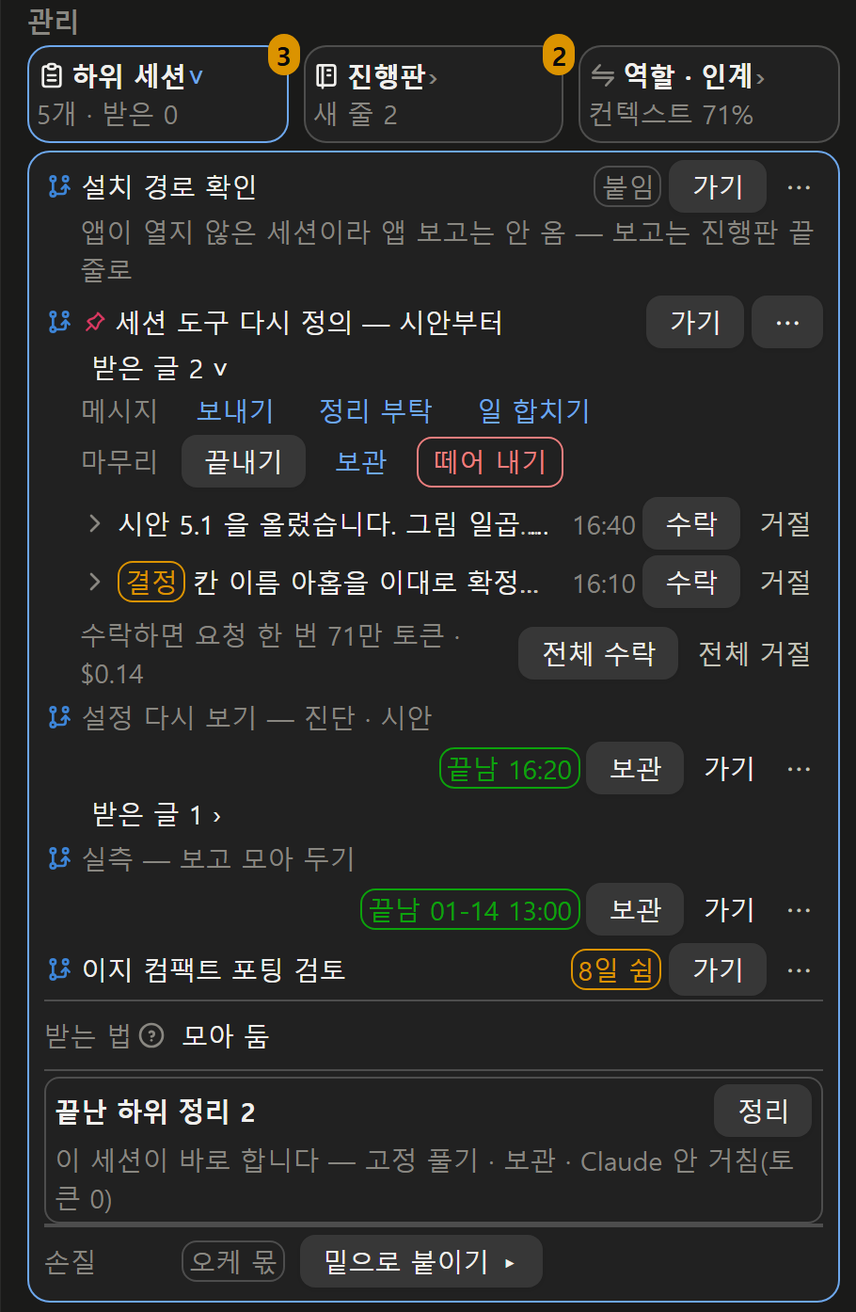
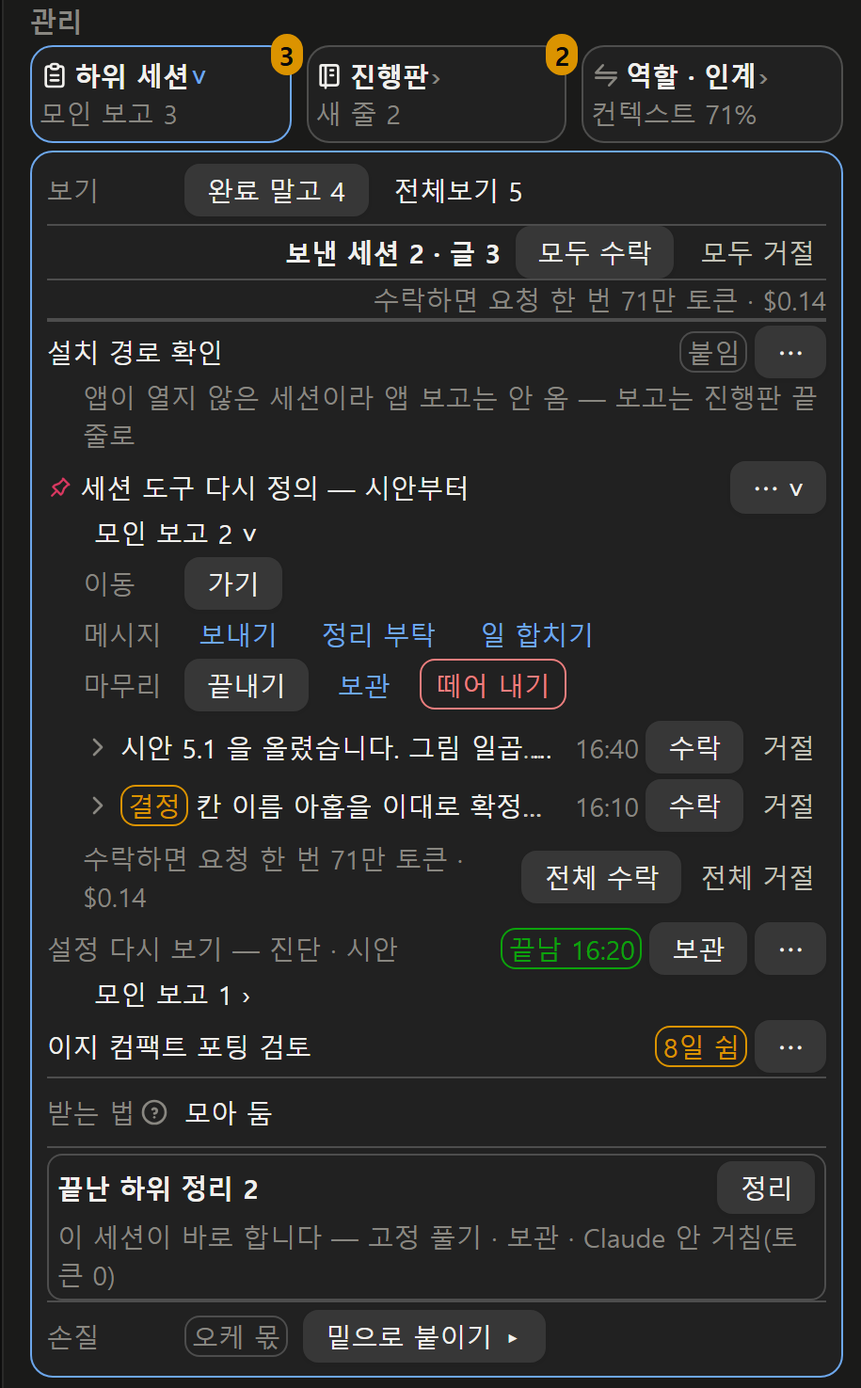
0.1.35 — 하위 세션 칸: 완료 말고 · 전체보기, 모두 수락 · 모두 거절, ⋯ 회색 · 가기는 ⋯ 안, 모인 보고 이름, 하위가 많을 때 가벼워짐

diff --git a/plugin/hooks/panel.tsx b/plugin/hooks/panel.tsx
@@ -536,6 +536,10 @@ export const UNDER_FOLD = 'under:'
 export const UNDER_ALL_FOLD = 'under-all:'
 // 오케 최악(보낸 세션 열 · 하나씩)에 7.5만 자 선을 넘었다(재기 — 크기 시험). 넘는 것은 「그 밖 N개」
 const MSG_LIMIT = 8
+// 한꺼번에 받기 · 지우기는 칸 맨 위 [모두 수락] · [모두 거절]
+const KID_MSG_LIMIT = 3
+/** 하위 세션 칸 「전체보기」 접힘 열쇠(0.1.35 M2 ①) — 없으면 「완료 말고」. 앞머리 kids 라 크기 안전망이 비우면 가벼운 보기로 돌아간다(register.md#sizeGuard) */
+const KIDS_ALL_FOLD = 'kids-all'
 /** 카드 바탕(0.1.5 — 어두운 테마 흰 5% · 밝은 테마 검정 3% 어림). 맞는 테마 키가 없어 중성 회색 — 노트 panel.md#card */
 const CARD_BG = 'rgba(128,128,128,.08)'
 // 칸 최소 폭 · 하위 줄 제목 칸 최소 폭(시안 140px ≈ 18칸) · 「지금」 줄에 그리는 입력 필요 줄 상한
@@ -855,6 +859,20 @@ export function drawPanel(ui: Ui, v: PanelView, pu: PanelUi, cols: number, acts:
   const heldUp = held.filter(r => r.from === upId)
   const heldSib = held.filter(r => sibIds.has(r.from))
   const heldOther = held.filter(r => !kidIds.has(r.from) && r.from !== upId && !sibIds.has(r.from))
+  // 할 것(모인 보고 · 입력 필요 · 끝난 듯)이 없는 줄. 도는 중인 줄은 남는다. 줄 차례는 만든 때 순 그대로(서가 「자리는 저절로 안 움직인다」)
+  const heldFrom = new Set(heldKid.map(r => r.from))
+  const kidTodo = (r: FamilyRow) => isWaiting(r) || heldFrom.has(r.id) || (!r.isEnded && !r.isArchived && v.ending?.has(r.id) === true)
+  const kidHidden = new Set(kids.filter(r => isDone(r) && !kidTodo(r)).map(r => r.id))
+  const isKidsAll = folds.has(KIDS_ALL_FOLD)
+  const kidsShown = isKidsAll ? kids : kids.filter(r => !kidHidden.has(r.id))
+  // 할 것 없는 줄 — 붙임 · N일 쉼 — 이 열 자리를 채워 모인 보고 3 줄이 「나머지 1」에 접혔다)
+  const kidRoom = Math.max(0, LIST_LIMIT - kidsShown.filter(kidTodo).length)
+  const kidFirst = (() => {
+    let quiet = 0
+    return kidsShown.filter(r => kidTodo(r) || quiet++ < kidRoom)
+  })()
+  const kidMore = kidsShown.length - kidFirst.length
+  const kidDrawn = kidMore > 0 && !folds.has('kids') ? kidFirst : kidsShown
   // 「다른 세션」 보낸 글 = 위 · 하위 · 형제가 아닌 받는 세션(앱 도착 기록)
   const inqSent = v.sent.filter(s => s.to !== upId && !kidIds.has(s.to) && !sibIds.has(s.to))
 
@@ -919,6 +937,7 @@ export function drawPanel(ui: Ui, v: PanelView, pu: PanelUi, cols: number, acts:
   )
 
   // 「마무리」 줄([끝내기] 회색 하나 · 보관 글 단추 · 떼어 내기 경고 단추). 단추 key 는 옛 ⋯ 목록 그대로(es-m-<이름>-<짧은 id>). 떼어 내기는 앱이 뗄 수 있는 세션만(canDetach)
+  // 0.1.35 M2 ④: 맨 위 「이동」 줄 [가기](줄에서 옮김 — 회색 단추는 그 자리 주 동작). 손질 두 줄은 메인 · 오케만, 이동 줄은 누구나(⋯ 는 모든 줄에 늘)
   const kidFix = (r: FamilyRow) => {
     const el = k(r.id)
     const item = (name: string, label: string, onPress: () => unknown) => linkButton(`es-m-${name}-${el}`, label, onPress)
@@ -934,12 +953,13 @@ export function drawPanel(ui: Ui, v: PanelView, pu: PanelUi, cols: number, acts:
     )
     return (
       <Box key={`es-fix-${el}`} flexDirection="column" rowGap={0.3} marginTop={0.3} marginLeft={2.5} minWidth={0}>
-        {fixRow(`es-fix-msg-${el}`, L('메시지', 'Messages'), [item('send', L('보내기', 'Send'), () => acts.send(r.id)), item('clean', L('정리 부탁', 'Ask to clean up'), () => acts.clean(r.id)), item('merge', L('일 합치기', 'Merge work'), () => acts.merge(r.id))])}
-        {fixRow(`es-fix-end-${el}`, L('마무리', 'Wrap up'), [
+        {fixRow(`es-fix-go-${el}`, L('이동', 'Go to'), [<Button key={`es-m-go-${el}`} variant="secondary" label={L('가기', 'Go')} onPress={() => acts.go(r.id)} />])}
+        {canFix ? fixRow(`es-fix-msg-${el}`, L('메시지', 'Messages'), [item('send', L('보내기', 'Send'), () => acts.send(r.id)), item('clean', L('정리 부탁', 'Ask to clean up'), () => acts.clean(r.id)), item('merge', L('일 합치기', 'Merge work'), () => acts.merge(r.id))]) : null}
+        {canFix ? fixRow(`es-fix-end-${el}`, L('마무리', 'Wrap up'), [
           <Button key={`es-m-end-${el}`} variant="secondary" label={r.isEnded ? L('끝남 풀기', 'Unmark ended') : L('끝내기', 'End')} onPress={() => acts.finish(r.id, !r.isEnded)} />,
           item('arch', L('보관', 'Archive'), () => acts.archive(r.id, true)),
           v.canDetach.has(r.id) ? dangerButton(`es-m-detach-${el}`, L('떼어 내기', 'Detach'), () => acts.detach(r.id), L('되돌릴 수 없습니다 — 그 세션 보고가 더는 안 옵니다', "Can't be undone — its reports stop coming")) : null,
-        ])}
+        ]) : null}
       </Box>
     )
   }
@@ -1177,8 +1197,6 @@ export function drawPanel(ui: Ui, v: PanelView, pu: PanelUi, cols: number, acts:
     const isLive = !r.isEnded && !r.isArchived
     const mine = heldKid.filter(x => x.from === r.id)
     const sentTo = v.sent.filter(s => s.to === r.id)
-    // ⋯ 는 손질(메인 · 오케) 또는 그 세션 모인 보고 · 보낸 글이 있을 때 — 서브도 보고를 낱개로 읽고 거절한다(설치판 할 일 카드 몫)
-    const hasMore = canFix || mine.length > 0 || sentTo.length > 0
     const endAt = endedAt.get(r.id)
     const isEnding = !r.isEnded && !r.isArchived && v.ending?.has(r.id) === true
     const state = r.isEnded
@@ -1197,16 +1215,13 @@ export function drawPanel(ui: Ui, v: PanelView, pu: PanelUi, cols: number, acts:
     // 앱이 연 세션이 아님 = 떼어 낸 세션(앱 lineageDetached — 이 세션이 열고 뗌) 또는 이지세션 기록으로 붙인 세션
     const notOpened = !v.opened.has(r.id)
     const how = r.isDetached ? L('떼어 냄', 'Detached') : L('붙임', 'Attached')
-    const more = isOpen ? (
-      <Button key={`es-more-${el}`} variant="secondary" label="⋯" onPress={() => acts.more(r.id)} />
-    ) : (
-      <Button key={`es-more-${el}`} plain dimColor label="⋯" onPress={() => acts.more(r.id)} />
-    )
+    // 편 때는 꺾쇠를 붙여 가른다(받은 글 단추와 같은 ˅)
+    const more = <Button key={`es-more-${el}`} variant="secondary" label={isOpen ? `⋯ ${CHEVRON.open}` : '⋯'} onPress={() => acts.more(r.id)} />
     return (
       <Box key={`es-row-${el}`} flexDirection="column" paddingY={0.2} minWidth={0}>
         <Box key={`es-head-${el}`} columnGap={0.5} rowGap={0.3} alignItems="center" flexWrap="wrap" minWidth={0}>
+          {/* 노트: panel.md#kidRow — 0.1.35 M2 ⑥: 줄 머리 역할 그림(SVG 글 줄당 약 480자)을 뺐다 — 오케인 하위만 표지 「오케」 */}
           <Box columnGap={0.5} alignItems="center" flexGrow={100} flexShrink={1} minWidth={Math.min(KID_TITLE_MIN, cols - 4)}>
-            {rowMark(r)}
             {r.isStarred ? pinMark(ui, r.pinWhy) : null}
             <Box flexShrink={1} minWidth={0}>
               <Text wrap="truncate-end" color={isDone(r) ? 'subtle' : undefined}>
@@ -1215,15 +1230,15 @@ export function drawPanel(ui: Ui, v: PanelView, pu: PanelUi, cols: number, acts:
             </Box>
           </Box>
           <Box columnGap={0.5} alignItems="center" flexGrow={1} justifyContent="flex-end">
+            {r.isOrche ? tagBox(`es-korc-${el}`, ROLE_NAME.orche) : null}
             {state}
             {idle}
             {v.heir === r.id ? tagBox(`es-kheir-${el}`, L('다음 차수', 'Next round')) : null}
             {notOpened ? tagBox(`es-kat-${el}`, how) : null}
-            {/* 노트: panel.md#kidRow — 0.1.32 J2 안 A: 회색 단추는 그 줄의 주 동작 하나(끝난 듯 → 끝내기 · 끝남 → 보관 · 그 밖 → 가기), 나머지는 글 단추 */}
+            {/* 노트: panel.md#kidRow — 0.1.32 J2 안 A 의 줄 주 동작(끝난 듯 → 끝내기 · 끝남 → 보관)은 그대로. 0.1.35 M2 ④: 「그 밖 → 가기」는 ⋯ 안 「이동」 줄로 옮김 */}
             {isEnding ? <Button key={`es-kend-${el}`} variant="secondary" label={L('끝내기', 'End')} onPress={() => acts.finish(r.id, true)} /> : null}
             {r.isEnded && canFix ? <Button key={`es-end-arch-${el}`} variant="secondary" label={L('보관', 'Archive')} onPress={() => void acts.archive(r.id, true)} /> : null}
-            {isEnding || (r.isEnded && canFix) ? <Button key={`es-m-go-${el}`} plain label={L('가기', 'Go')} onPress={() => acts.go(r.id)} /> : <Button key={`es-m-go-${el}`} variant="secondary" label={L('가기', 'Go')} onPress={() => acts.go(r.id)} />}
-            {hasMore ? more : null}
+            {more}
           </Box>
         </Box>
         {/* 노트: panel.md#kidRow — 0.1.31 ⑦ 아랫줄 맨 앞 권한 모드 낱말(앱 메뉴 이름) · 마지막 활동 */}
@@ -1237,7 +1252,8 @@ export function drawPanel(ui: Ui, v: PanelView, pu: PanelUi, cols: number, acts:
               </Box>
             ) : null}
             {/* 노트: panel.md#kidRow — 0.1.32 J2 안 A: 받은 글 수는 글 단추 — 누르면 줄을 펴 글마다 수락 · 거절 · [전체 수락](0.1.31 「수락 N」 회색 단추를 갈음) */}
-            {mine.length > 0 ? <Button key={`es-take-${el}`} plain label={L(`받은 글 ${mine.length} ${isOpen ? CHEVRON.open : CHEVRON.closed}`, `${mine.length} received ${isOpen ? CHEVRON.open : CHEVRON.closed}`)} onPress={() => acts.more(r.id)} /> : null}
+            {/* 0.1.35 M2 ⑤: 「받은 글 N」 → 「모인 보고 N」(칸 아랫줄 · 맨 위 띠와 같은 이름 — 「받은」은 누적 수와 겹쳤다) */}
+            {mine.length > 0 ? <Button key={`es-take-${el}`} plain label={L(`모인 보고 ${mine.length} ${isOpen ? CHEVRON.open : CHEVRON.closed}`, `${mine.length} held ${isOpen ? CHEVRON.open : CHEVRON.closed}`)} onPress={() => acts.more(r.id)} /> : null}
           </Box>
         ) : null}
         {needsLine(r)}
@@ -1255,7 +1271,7 @@ export function drawPanel(ui: Ui, v: PanelView, pu: PanelUi, cols: number, acts:
             </Text>
           </Box>
         ) : null}
-        {isOpen && canFix ? kidFix(r) : null}
+        {isOpen ? kidFix(r) : null}
         {isOpen && mine.length > 0 ? heldList(el, mine) : null}
         {isOpen && sentTo.length > 0 ? (
           <Box key={`es-kid-sent-${el}`} flexDirection="column" marginLeft={2.5} marginTop={0.3} minWidth={0}>
@@ -1369,7 +1385,7 @@ export function drawPanel(ui: Ui, v: PanelView, pu: PanelUi, cols: number, acts:
   // 줄마다 되풀이되는 [가기]는 흰 글 단추(plain — 덮개 꼴은 줄마다 약 300 자라 최악 경우가 그리기 선을 넘었다)
   const linkButton = (key: string, label: string, onPress: () => unknown) => pressBox(ui, key, { content: [<Text color="suggestion">{label}</Text>], cover: coverCells(textCh(label) + 1), onPress, box: { paddingX: 1 } })
 
-  const FIX_LABEL_W = Math.ceil(Math.max(textCh(L('메시지', 'Messages')), textCh(L('마무리', 'Wrap up')))) + 1
+  const FIX_LABEL_W = Math.ceil(Math.max(textCh(L('메시지', 'Messages')), textCh(L('마무리', 'Wrap up')), textCh(L('이동', 'Go to')))) + 1
 
   // 목록 상한 — 넘으면 「나머지 N」(펼쳐도 남아 다시 접는다). 그리기 크기 대책(register.md#sizeGuard). key = 접힘 열쇠(sibs · kids)
   const capped = (list: readonly FamilyRow[], key: string, draw: (r: FamilyRow) => unknown): unknown[] => {
@@ -1580,7 +1596,7 @@ export function drawPanel(ui: Ui, v: PanelView, pu: PanelUi, cols: number, acts:
 
   const heldList = (el: string, list: readonly HeldReport[]) => {
     const cost = v.accept ? acceptCost(v.accept.tokens, v.accept.isCold) : null
-    const shown = list.slice(0, MSG_LIMIT)
+    const shown = list.slice(0, KID_MSG_LIMIT)
     return (
       <Box key={`es-mc-${el}`} flexDirection="column" marginLeft={2.5} marginTop={0.2} minWidth={0}>
         {shown.map(heldItem)}
@@ -1594,8 +1610,8 @@ export function drawPanel(ui: Ui, v: PanelView, pu: PanelUi, cols: number, acts:
           {list.length > 1 ? <Button key={`es-kacc-all-${el}`} variant="secondary" label={L('전체 수락', 'Accept all')} onPress={() => acts.accept(list.map(heldKey))} /> : null}
           {list.length > 1 ? <Button key={`es-rej-all-${el}`} plain dimColor label={L('전체 거절', 'Reject all')} onPress={() => acts.reject(list.map(heldKey))} /> : null}
         </Box>
-        {list.length > MSG_LIMIT ? (
-          <Text key={`es-mc-rest-${el}`} color="subtle" size="footnote">{L(`그 밖 ${list.length - MSG_LIMIT}개(오래된 것) — 위를 처리하면 이어서 보입니다`, `${list.length - MSG_LIMIT} more (older) — they show once you handle the ones above`)}</Text>
+        {list.length > KID_MSG_LIMIT ? (
+          <Text key={`es-mc-rest-${el}`} color="subtle" size="footnote">{L(`그 밖 ${list.length - KID_MSG_LIMIT}개(오래된 것) — 위를 처리하면 이어서 보입니다`, `${list.length - KID_MSG_LIMIT} more (older) — they show once you handle the ones above`)}</Text>
         ) : null}
       </Box>
     )
@@ -2365,7 +2381,7 @@ export function drawPanel(ui: Ui, v: PanelView, pu: PanelUi, cols: number, acts:
     const out: unknown[][] = []
     // 그 줄이 「나머지」에 접혀 안 그려지면 칸 맨 위(0.1.31 자리)
     const pre = pu.pre
-    const drawnKids = kids.length <= LIST_LIMIT || folds.has('kids') ? kids : kids.slice(0, LIST_LIMIT)
+    const drawnKids = kidDrawn
     const preAtTidy = pre?.act === 'tidy' && canFix && ended.length > 0
     const preAtRow = pre !== null && pre !== undefined && pre.act !== 'tidy' && drawnKids.some(r => r.id === pre.ids[0])
     if (pre && !preAtTidy && !preAtRow) out.push([preCard(pre)])
@@ -2385,11 +2401,33 @@ export function drawPanel(ui: Ui, v: PanelView, pu: PanelUi, cols: number, acts:
         ),
       )
     if (pu.kidsAsk && pu.kidsAsk.length > 0) out.push([kidsAskCard(pu.kidsAsk)])
+    if (kidHidden.size > 0) {
+      const pick = (key: string, on: boolean, label: string, all: boolean) =>
+        on ? <Button key={key} variant="secondary" label={label} onPress={() => acts.fold(KIDS_ALL_FOLD, all)} /> : <Button key={key} plain label={label} onPress={() => acts.fold(KIDS_ALL_FOLD, all)} />
+      out.push(
+        cardRow('es-rep-view', L('보기', 'Show'), [
+          pick('es-kv-todo', !isKidsAll, L(`완료 말고 ${kids.length - kidHidden.size}`, `Not done ${kids.length - kidHidden.size}`), false),
+          pick('es-kv-all', isKidsAll, L(`전체보기 ${kids.length}`, `All ${kids.length}`), true),
+        ]),
+      )
+    }
+    // 보낸 세션 둘부터 · 거절은 그 자리에서 한 번 묻기) + 수락 어림 한 줄
+    const every = heldAll('es-rep-held', heldKid)
+    if (every.length > 0) {
+      const cost = v.accept ? acceptCost(v.accept.tokens, v.accept.isCold) : null
+      out.push(...every)
+      if (cost)
+        out.push([
+          <Box key="es-rep-held-cost" justifyContent="flex-end" minWidth={0}>
+            <Text color="subtle" size="footnote">{L(`수락하면 ${cost}`, `Accept: ${cost}`)}</Text>
+          </Box>,
+        ])
+    }
     if (kids.length === 0) out.push(cardRow('es-rep-none', null, subText(L('하위 세션이 없습니다.', 'No sessions below.'))))
     else {
       out.push([
         <Box key="es-kids" flexDirection="column" minWidth={0}>
-          {capped(kids, 'kids', kidRow)}
+          {kidsShown.length > 0 ? [...kidDrawn.map(kidRow), kidMore > 0 ? tailRow('kids', 'kids', L('나머지', 'More'), kidMore) : null] : subText(L(`할 것 있는 하위가 없습니다 — 완료 ${kidHidden.size}개는 [전체보기]`, `Nothing to handle below — ${kidHidden.size} done in [All]`))}
         </Box>,
       ])
       out.push(cardRow('es-rep-recv', L('받는 법', 'Receive'), <Text>{v.settings.reports.value === 'app' ? L('앱 그대로', "The app's way") : L('모아 둠', 'Held in the panel')}</Text>, recvHelp))
@@ -2708,7 +2746,12 @@ export function drawPanel(ui: Ui, v: PanelView, pu: PanelUi, cols: number, acts:
         g: 'mgmt',
         name: L('하위 세션', 'Below'),
         icon: icon('clipboard'),
-        sub: kids.length > 0 ? L(`${kids.length}개 · 받은 ${countOf(v.recv, id => kidIds.has(id))}`, `${kids.length} · in ${countOf(v.recv, id => kidIds.has(id))}`) : L('없음', 'None'),
+        // 그것만(380 폭 칸에서 「모인 보고 38 · 세션 16」은 잘렸다 — 세션 수는 칸 안 「전체보기 N」), 없으면 「세션 N」. 「받은」 누적(앱 도착 기록)은 뺐다 — 줄의 안 받은 보고와 낱말이 겹쳤다
+        sub:
+          kids.length > 0
+            ? [waits.length > 0 ? L(`입력 필요 ${waits.length}`, `${waits.length} need input`) : '', heldKid.length > 0 ? L(`모인 보고 ${heldKid.length}`, `${heldKid.length} held`) : ''].filter(Boolean).join(' · ') ||
+              L(`세션 ${kids.length}`, plural(kids.length, 'session'))
+            : L('없음', 'None'),
         use: kids.length > 0,
         cnt: waits.length + heldKid.length,
         body: repBody,

diff --git a/README.ko.md b/README.ko.md
@@ -6,7 +6,7 @@
 </p>
 
 <p align="center">
-  <img src="https://img.shields.io/badge/version-0.1.34-4c9be8" alt="버전 0.1.34">
+  <img src="https://img.shields.io/badge/version-0.1.35-4c9be8" alt="버전 0.1.35">
   <img src="https://img.shields.io/badge/Claude_Code-plugin-D97757" alt="Claude Code 플러그인">
   <img src="https://img.shields.io/badge/tested_on-Claude_Code_2.1.330-4c9be8" alt="Claude Code 2.1.330 에서 시험">
   <img src="https://img.shields.io/badge/license-MIT-green" alt="MIT 라이선스">
@@ -15,7 +15,7 @@
 <p align="center">
   <a href="README.md">English</a> · <b>한국어</b>
   &nbsp;|&nbsp;
-  <a href="#필요한-것">필요한 것</a> · <a href="#설치">설치</a> · <a href="#업데이트-받기">업데이트 받기</a> · <a href="#0134-에서-바뀐-것">바뀐 것</a> · <a href="#왜-필요한가">왜 필요한가</a> · <a href="#기능">기능</a> · <a href="#알아-둘-것">알아 둘 것</a> · <a href="#문제가-생기면--제보">제보</a>
+  <a href="#필요한-것">필요한 것</a> · <a href="#설치">설치</a> · <a href="#업데이트-받기">업데이트 받기</a> · <a href="#0135-에서-바뀐-것">바뀐 것</a> · <a href="#왜-필요한가">왜 필요한가</a> · <a href="#기능">기능</a> · <a href="#알아-둘-것">알아 둘 것</a> · <a href="#문제가-생기면--제보">제보</a>
 </p>
 
 <p align="center">
@@ -114,9 +114,9 @@ claude plugin uninstall easy-session@easy-session
 
 </details>
 
-## 0.1.34 에서 바뀐 것
+## 0.1.35 에서 바뀐 것
 
-- **답을 받을 글인지 붙여 보내기** — 세션끼리 보내는 글이 갈래 셋 가운데 하나로 시작합니다: **알림**(보내고 끝 — 처음 값) · **답 받기**(답을 한 번 달라고 함) · **주고받기**(사용자 말 없이 3번까지). 패널 보낼 칸 아래에서 고릅니다. Claude 가 보낼 때도 갈래를 붙여야 합니다. 받은 Claude 에게는 사용자가 시키지 않는 한 알림에 답장하지 말라고 알립니다. [설정 탭](#4-설정-탭)의 메시지 참고.
+- **하위 세션 칸을 할 것 위주로** — 완료되었고 할 것이 없는 하위 줄은 처음에 숨습니다(**완료 말고 N** · **전체보기 N** 으로 바꿈). 할 것이 있는 줄은 「나머지」에 접히지 않습니다. 보고를 보낸 하위가 둘 이상이면 칸 맨 위에서 **모두 수락** · **모두 거절** 합니다. 줄마다 **⋯** 가 회색 단추로 보입니다. **가기** 는 **⋯** 안 「이동」 줄로 옮겼습니다. 칸 아랫줄은 「모인 보고 N」처럼 무엇의 수인지 씁니다. 하위가 많아도 가볍게 그립니다. [세션 도구 탭](#2-세션-도구-탭)의 하위 세션 참고.
 
 앞 버전에서 바뀐 것은 [변경 기록](CHANGELOG.ko.md)에 있습니다.
 
@@ -167,7 +167,7 @@ Claude 가 답하는 동안엔 advisor · 화면을 바꿀 수 없습니다. 답
 
 ### 2. 세션 도구 탭
 
-<img src="docs/img/advisor.ko.png" width="400" alt="어드바이저 칸: 부를 때마다 시각 · 토큰 · 바로 앞에 하던 일 · 바로 뒤에 한 일"> <img src="docs/img/below.ko.png" width="400" alt="하위 세션 칸: 모인 보고 수락 · 거절, 끝남 · 쉼 표시, 끝난 하위 정리">
+<img src="docs/img/advisor.ko.png" width="400" alt="어드바이저 칸: 부를 때마다 시각 · 토큰 · 바로 앞에 하던 일 · 바로 뒤에 한 일"> <img src="docs/img/below.ko.png" width="400" alt="하위 세션 칸: 완료 말고 · 전체보기, 모인 보고 모두 수락 · 거절, ⋯ 안 이동 · 손질, 끝난 하위 정리">
 
 <img src="docs/img/role.ko.png" width="400" alt="역할 · 인계 카드">
 
@@ -186,7 +186,7 @@ Claude 가 답하는 동안엔 advisor · 화면을 바꿀 수 없습니다. 답
 | 세션 메시지 | 위 세션 | 위 세션 줄(이름표 「이전 차수」 · 「연 세션」 · 「주인」)과 **보내기**, 메인이 바로 위가 아니면 「메인」 줄(**보내기** · **가기**), 보낸 글과 도착 여부 · 갈래. 보낼 칸 아래에서 글이 바라는 것을 고릅니다 — **알림**(보내고 끝 — 처음 값) · **답 받기**(답을 한 번 받음) · **주고받기**(3번까지 오감). 보낸 뒤에는 알림으로 돌아갑니다. **보고 꼴로** 는 다섯 칸 보고 글(끝난 것 · 하는 중 · 막힌 것 · 기다리는 결정 · 다음)을 입력칸에 넣고 끝에 전달 신호를 붙입니다 — 보내면 답이 위로 갑니다. 메인 · 맨 위 오케는 **보고 꼴로 — 채팅에**. 받는 세션이 권한 무시 · 계획이고 이 세션이 그 밖 모드면(앱이 붙잡아 몇 분 뒤 버리는 칸) **보내기** 가 보낼 칸 자리에 고르기 셋을 띄웁니다 — **카드로 보내기** · **받는 세션을 자동으로 내리고 보내기**(일하는 중이면 그 차례가 끝난 뒤) · **이 세션을 권한 무시로 올리기**. 이 세션을 연 세션이 보고를 패널에 모아 두면 묻지 않고 카드로 갑니다. Claude 가 그런 칸에 직접 보내려 하면 막고 할 일(끝 답에 적기 · 자기 하위를 자동으로 내리기 · 사용자에게 묻기)을 알려 줍니다. |
 | | 형제 세션 | 옆 세션마다 **보내기** · **가기**, 그리고 보낸 글. |
 | | 다른 세션 | 「데스크톱 앱 밖 · 지금 열린 세션」 아래 지금 열린 VS Code · 터미널 세션(표지 「VS Code」 · 「터미널」, 줄마다 **보내기**), 그 밖 세션과 주고받은 글. 그 밖 세션에 보낼 때는 Claude 에게 보내 달라고 합니다(입력창 보내기는 위로만). |
-| 관리 | 하위 세션 | 아래 세션들: 상태(끝남 · 끝난 듯 · 입력 필요 · 7일 넘게 쉼 · 붙임 · 다음 차수 — 「끝난 듯」은 마지막 답 끝 두 줄 「남은 것」 · 「결정할 것」이 모두 「없음」인 세션, 옆 **끝내기** 로 끝남 기록). 줄마다 회색 단추는 주 동작 하나입니다 — 끝난 듯이면 **끝내기**, 끝났으면 **보관**(메인 · 오케), 그 밖엔 **가기**. 모인 보고가 있으면 둘째 줄 **받은 글 N ›** 으로 줄을 펴고 글마다 **수락** · **거절**, 둘부터 **전체 수락** · **전체 거절** 합니다(수락한 글은 여기 Claude 에게). 그 아래에 또 세션이 있으면 「› 아래 N」(입력 필요가 있으면 주황 「입력 필요 N」)을 눌러 깊이만큼 들인 줄로 폅니다(줄마다 표지 · **가기**). 메인 · 오케는 **⋯** 로 펴면 두 줄이 더 있습니다 — **메시지**(보내기 · 정리 부탁 · 일 합치기 — 하던 일을 위로 넘기고 끝내 달라는 글) · **마무리**(끝내기 · 보관 · 빨간 테두리 **떼어 내기**). 「손질」 줄에는 **밑으로 붙이기**(다른 세션을 이 세션 아래로)가 있습니다. 칸에는 하위 세션 권한 모드도 보입니다(「권한 모드 — 자동 N · 권한 무시 M」 줄 · 줄마다 모드 낱말). 메인 · 오케는 그 줄 오른쪽 **하위 모두 자동으로** 로 권한 무시 하위를 자동으로 내립니다(일하는 중이면 그 차례가 끝난 뒤 · 트리로만 묶인 하위는 한 번 묻고). 끝난 하위가 있으면 「끝난 하위 정리」 상자가 생깁니다 — 이 세션이 권한 무시면 **정리** 가 Claude 를 거치지 않고 고정을 풀고 한 번에 보관합니다. 그 밖 모드면 바로 못 한다고 적고 **이 세션을 권한 무시로**(앱 승인 카드 한 번) · **Claude 에게 줄마다 맡기기**(보관 하나에 차례 하나)를 둡니다. 보관 · 끝내기 · 모두 보관 전에 그 세션과 남은 메시지(그 세션이 보낸 안 받은 글 · 그 세션에 보낸 안 읽힌 글)가 있으면 누른 줄 밑에 카드가 떠 먼저 물어봅니다 — **받고 보관** · **지우고 보관** · **남기고 보관**. 고른 것은 대화에 한 줄로 남습니다. 남기고 보관한 글의 카드엔 「보관됨」이 붙습니다. |
+| 관리 | 하위 세션 | 아래 세션들: 상태(끝남 · 끝난 듯 · 입력 필요 · 7일 넘게 쉼 · 붙임 · 다음 차수 · 오케 — 「끝난 듯」은 마지막 답 끝 두 줄 「남은 것」 · 「결정할 것」이 모두 「없음」인 세션, 옆 **끝내기** 로 끝남 기록). 칸 아랫줄은 할 것의 수입니다(「입력 필요 N」 · 「모인 보고 N」, 없으면 「세션 N」). 완료 · 끝남이면서 할 것(모인 보고 · 입력 필요 · 끝난 듯)이 없는 줄은 처음에 숨습니다 — 칸 맨 위 **완료 말고 N** · **전체보기 N** 으로 바꿔 봅니다(고른 보기는 기억). 줄은 만든 때 순입니다. 할 것이 있는 줄은 「나머지」에 접히지 않습니다. 보고를 보낸 하위가 둘 이상이면 칸 맨 위 **모두 수락** · **모두 거절**(한 번 묻고 지움)과 수락 어림이 있습니다. 줄 회색 단추는 끝난 듯이면 **끝내기**, 끝났으면 **보관**(메인 · 오케)입니다. 줄마다 **⋯** 가 회색 단추로 있습니다. 모인 보고가 있으면 둘째 줄 **모인 보고 N ›** 으로 줄을 펴고 최근 셋을 글마다 **수락** · **거절**, 둘부터 **전체 수락** · **전체 거절** 합니다(그 세션 것 모두 — 수락한 글은 여기 Claude 에게). 그 아래에 또 세션이 있으면 「› 아래 N」(입력 필요가 있으면 주황 「입력 필요 N」)을 눌러 깊이만큼 들인 줄로 폅니다(줄마다 표지 · **가기**). **⋯** 를 펴면 맨 위 「이동」 줄에 **가기**, 메인 · 오케는 두 줄이 더 있습니다 — **메시지**(보내기 · 정리 부탁 · 일 합치기 — 하던 일을 위로 넘기고 끝내 달라는 글) · **마무리**(끝내기 · 보관 · 빨간 테두리 **떼어 내기**). 「손질」 줄에는 **밑으로 붙이기**(다른 세션을 이 세션 아래로)가 있습니다. 칸에는 하위 세션 권한 모드도 보입니다(「권한 모드 — 자동 N · 권한 무시 M」 줄 · 줄마다 모드 낱말). 메인 · 오케는 그 줄 오른쪽 **하위 모두 자동으로** 로 권한 무시 하위를 자동으로 내립니다(일하는 중이면 그 차례가 끝난 뒤 · 트리로만 묶인 하위는 한 번 묻고). 끝난 하위가 있으면 「끝난 하위 정리」 상자가 생깁니다 — 이 세션이 권한 무시면 **정리** 가 Claude 를 거치지 않고 고정을 풀고 한 번에 보관합니다. 그 밖 모드면 바로 못 한다고 적고 **이 세션을 권한 무시로**(앱 승인 카드 한 번) · **Claude 에게 줄마다 맡기기**(보관 하나에 차례 하나)를 둡니다. 보관 · 끝내기 · 모두 보관 전에 그 세션과 남은 메시지(그 세션이 보낸 안 받은 글 · 그 세션에 보낸 안 읽힌 글)가 있으면 누른 줄 밑에 카드가 떠 먼저 물어봅니다 — **받고 보관** · **지우고 보관** · **남기고 보관**. 고른 것은 대화에 한 줄로 남습니다. 남기고 보관한 글의 카드엔 「보관됨」이 붙습니다. |
 | | 진행판 | 메인 · 오케: 고른 `.md` 진행판 — 「파일」 줄(**바꾸기**)과 「새 줄」 줄(**넣기** — 입력칸에 · **보기**). 서브는 위 세션의 진행판을 보입니다. |
 | | 역할 · 인계 | **인계** — 상태를 적고 같은 역할로 다음 차수(`… N+1차`) 새 세션을 열라는 지시 글을 입력칸에 넣습니다. 새 세션은 첫 차례에 인계 자료만 읽고 보고합니다. 메인 · 오케의 다음 차수는 자리 · 하위 세션 · 고정 · 오케 표시 · 진행판을 이어받습니다. 곁가지의 다음 차수는 둘 다 열려 있는 동안 앞 차수 아래에 놓입니다(「이전 차수」 · 「다음 차수」). **바꾸기** 는 이 세션 역할만 바꿉니다: 오케로(맨 위 단독이면 **메인으로** — 맨 위 오케가 메인이라) · 오케 풀기 · 서브를 단독으로(떼어 내기) · 단독을 고른 오케 아래 서브로. 지금 안 되는 것은 「안 됨」 줄에 흐리게, 까닭과 함께 보입니다. 칸 아랫줄은 컨텍스트 % 입니다. |
 

diff --git a/README.md b/README.md
@@ -6,7 +6,7 @@
 </p>
 
 <p align="center">
-  <img src="https://img.shields.io/badge/version-0.1.34-4c9be8" alt="Version 0.1.34">
+  <img src="https://img.shields.io/badge/version-0.1.35-4c9be8" alt="Version 0.1.35">
   <img src="https://img.shields.io/badge/Claude_Code-plugin-D97757" alt="Claude Code plugin">
   <img src="https://img.shields.io/badge/tested_on-Claude_Code_2.1.330-4c9be8" alt="Tested on Claude Code 2.1.330">
   <img src="https://img.shields.io/badge/license-MIT-green" alt="MIT license">
@@ -15,7 +15,7 @@
 <p align="center">
   <b>English</b> · <a href="README.ko.md">한국어</a>
   &nbsp;|&nbsp;
-  <a href="#requirements">Requirements</a> · <a href="#install">Install</a> · <a href="#update">Update</a> · <a href="#whats-new-in-0134">What's new</a> · <a href="#why-easy-session">Why</a> · <a href="#features">Features</a> · <a href="#good-to-know">Good to know</a> · <a href="#something-wrong--report-it">Report a problem</a>
+  <a href="#requirements">Requirements</a> · <a href="#install">Install</a> · <a href="#update">Update</a> · <a href="#whats-new-in-0135">What's new</a> · <a href="#why-easy-session">Why</a> · <a href="#features">Features</a> · <a href="#good-to-know">Good to know</a> · <a href="#something-wrong--report-it">Report a problem</a>
 </p>
 
 <p align="center">
@@ -114,9 +114,9 @@ No cloning into `~/.claude` and no `settings.json` edits are involved.
 
 </details>
 
-## What's new in 0.1.34
+## What's new in 0.1.35
 
-- **Say whether a message wants an answer** — a message between sessions starts with one of three kinds: **Notice** (send and done — the default), **Reply wanted** (asks for one reply) or **Back-and-forth** (up to 3 sends without you). Pick it under the panel's send box. Claude's own sends need a kind too, and the receiving Claude is told not to reply to a Notice unless you ask. See Messages under [Settings tab](#4-settings-tab).
+- **The Below tile puts what needs you first** — rows below that are done with nothing to handle start hidden (switch with **Not done N** and **All N**). Rows with something to handle never fold into "More". When two or more sessions below have held reports, **Accept everything** and **Reject everything** sit at the top of the tile. Every row shows **⋯** as a gray button, and **Go** moved to the "Go to" line inside **⋯**. The tile's bottom line says what it counts, like "38 held". Many sessions below draw lighter. See Below under [Session tools tab](#2-session-tools-tab).
 
 Changes in earlier versions are in the [changelog](CHANGELOG.md).
 
@@ -167,7 +167,7 @@ While Claude is answering, the advisor and Screen choices are locked until the a
 
 ### 2. Session tools tab
 
-<img src="docs/img/advisor.png" width="400" alt="The Advisor tile: each call's time and tokens, what Claude was doing just before and what it did right after"> <img src="docs/img/below.png" width="400" alt="The Below tile: held reports to accept or reject, ended and idle sessions, Tidy ended">
+<img src="docs/img/advisor.png" width="400" alt="The Advisor tile: each call's time and tokens, what Claude was doing just before and what it did right after"> <img src="docs/img/below.png" width="400" alt="The Below tile: Not done and All, accept or reject every held report, Go and the manage lines inside ⋯, Tidy ended">
 
 <img src="docs/img/role.png" width="400" alt="The Role card: Hand over and Change">
 
@@ -186,7 +186,7 @@ While Claude is answering, the advisor and Screen choices are locked until the a
 | Session messages | Above | The session above — labelled **Previous** (previous round), **Opened by** or **Owner** — with **Send**; a **Main** row with **Send** and **Go** when the main isn't directly above; and the messages you sent with whether they arrived and their kind. Under each send box, pick what the message expects — **Notice** (send and done — the default), **Reply wanted** (one reply back) or **Back-and-forth** (up to 3 rounds); it goes back to Notice after each send. **Report form** puts a five-part report request in the prompt box — done, in progress, blocked, decisions waiting, next — ending with the send signal, so the answer goes up. A main or top orchestrator session gets **Report form — in the chat** instead. When the receiving session is in Bypass permissions or plan mode and this one isn't (the app would hold the message and drop it after a few minutes), **Send** shows three choices in place of the send box: **Send as a card**, **Lower it to Auto, then send** (after its turn ends if it is working) and **Raise this session to Bypass**. When the session that opened this one holds reports in its panel, the text goes there as a card without asking. When Claude tries such a send itself, it is refused with what to do instead (write it in the last answer, set its own child session to Auto, or ask you). |
 | | Siblings | The sessions beside this one, each with **Send** and **Go**, and what you sent them. |
 | | Others | The VS Code and terminal sessions open now, under *Outside the desktop app · open now*, tagged VS Code or Terminal, each with **Send**; and messages to and from sessions outside the above, below and siblings. To send to any other session, ask Claude to send it (the prompt box sends only upward). |
-| Manage | Below | The sessions below: their state (Ended, Looks done, Needs input, Idle 7d and more, Attached, Next round — *Looks done* is a session whose last answer ends with both closing lines, Remaining and Decisions, saying none; **End** beside it records the end). Each row has one gray button for its main action: **End** when it looks done, **Archive** once ended (main and orchestrator), **Go** otherwise. When it has held reports, **N received ›** on the second line opens the row to **Accept** or **Reject** each one, with **Accept all** and **Reject all** from two (accepted ones go to Claude here). When a row has sessions under it, **› N below** (orange *N need input* when one waits) opens them as indented rows, each with its tags and **Go**. Main and orchestrator sessions open **⋯** for two more lines: **Messages** (**Send**, **Ask to clean up**, **Merge work** — asks it to hand its work up and stop) and **Wrap up** (**End**, **Archive** and a red-bordered **Detach**); and a Manage row with **Put under this one** (put another session under this one). The tile also shows each session's permission mode (a *Modes* line with the counts, and the mode under each row; in a main or orchestrator session **All below to Auto** at its right sets the sessions below in Bypass permissions to Auto — after their turn if they are working, and asking once for sessions put under this one only in the tree), and, when sessions below have ended, a **Tidy ended** box: in Bypass permissions **Tidy** unpins and archives them all at once with no Claude turn; in any other mode it says so and offers **Switch this session to Bypass** (the app's approval card once) or **Ask Claude row by row** (one turn per archive). Before Archive, End or Archive all, when messages are left with that session (ones it sent that you haven't taken, ones you sent it that it hasn't read), a card under the row you pressed asks first: **Take and archive**, **Delete and archive** or **Keep and archive**. What you chose is left as one line in the conversation; kept messages from an archived session show *Archived* on their card. |
+| Manage | Below | The sessions below: their state (Ended, Looks done, Needs input, Idle 7d and more, Attached, Next round, Orchestrator — *Looks done* is a session whose last answer ends with both closing lines, Remaining and Decisions, saying none; **End** beside it records the end). The tile's bottom line counts what needs you (*N need input*, *N held*, or *N sessions* when nothing does). Rows that are done or ended with nothing to handle (held reports, needs input, looks done) start hidden — switch with **Not done N** and **All N** at the top of the tile (your choice is kept). Rows keep the order they were opened in, and rows with something to handle never fold into "More". When two or more sessions below have held reports, the top of the tile has **Accept everything** and **Reject everything** (asks once before deleting) with the accept estimate. A row's gray button is **End** when it looks done or **Archive** once ended (main and orchestrator), and every row has a gray **⋯**. When it has held reports, **N held ›** on the second line opens the row to **Accept** or **Reject** each of the latest three, with **Accept all** and **Reject all** from two (all of that session's — accepted ones go to Claude here). When a row has sessions under it, **› N below** (orange *N need input* when one waits) opens them as indented rows, each with its tags and **Go**. **⋯** opens a "Go to" line with **Go**, and in main and orchestrator sessions two more lines: **Messages** (**Send**, **Ask to clean up**, **Merge work** — asks it to hand its work up and stop) and **Wrap up** (**End**, **Archive** and a red-bordered **Detach**); and a Manage row with **Put under this one** (put another session under this one). The tile also shows each session's permission mode (a *Modes* line with the counts, and the mode under each row; in a main or orchestrator session **All below to Auto** at its right sets the sessions below in Bypass permissions to Auto — after their turn if they are working, and asking once for sessions put under this one only in the tree), and, when sessions below have ended, a **Tidy ended** box: in Bypass permissions **Tidy** unpins and archives them all at once with no Claude turn; in any other mode it says so and offers **Switch this session to Bypass** (the app's approval card once) or **Ask Claude row by row** (one turn per archive). Before Archive, End or Archive all, when messages are left with that session (ones it sent that you haven't taken, ones you sent it that it hasn't read), a card under the row you pressed asks first: **Take and archive**, **Delete and archive** or **Keep and archive**. What you chose is left as one line in the conversation; kept messages from an archived session show *Archived* on their card. |
 | | Board | Main and orchestrator sessions: the `.md` progress board you choose — File with **Change**, and New lines with **Add** (puts them in the prompt box) and **View**. A sub session shows the board of the session above. |
 | | Role | **Hand over** puts an instruction in the prompt box to save the state and open the next round, titled `… N+1차`, with the same role; the new session spends its first turn reading the handover notes and reporting back. A main or orchestrator session's next round takes over its place, the sessions below, the pin, the orchestrator mark and the board; a side session's next round stays under it while both are open (Previous · Next round). **Change** changes only this session's role: **Make orchestrator** (**Make main** for a solo session at the top — the orchestrator at the top is the main) or **Step down**, take a sub session solo (detach), or put a solo session under an orchestrator you pick. What can't happen now is on the **Not now** row, dimmed, with the reason. The tile's second line shows the context %. |
 

diff --git a/CHANGELOG.md b/CHANGELOG.md
@@ -4,6 +4,15 @@ All notable changes to easy-session. Versions follow [Semantic Versioning](https
 
 **Update:** send Claude `Update this plugin: easy-session (claude plugin marketplace update easy-session, then claude plugin update easy-session@easy-session)`, or run those two lines in a shell, then restart Claude — see [Update](README.md#update).
 
+## [0.1.35] — 2026-11-27
+
+### Changed
+- **"Not done" and "All" on the Below tile** — rows below that ended or show Done and have nothing to handle (held reports, needs input, looks done) start hidden. Switch with **Not done N** and **All N** at the top of the tile (your choice is kept). Rows with something to handle never fold into "More". Rows keep the order they were opened in.
+- **Accept or reject every held report from below** — when two or more sessions below have held reports, the top of the tile has **Accept everything** and **Reject everything** (asks once before deleting) with the accept estimate. Up to 0.1.34 you opened **⋯** on each row.
+- **⋯ is a gray button, Go moved into ⋯** — every row below shows **⋯** as a gray button. **Go** is on the "Go to" line at the top of the opened **⋯**. The role icon at the start of the row is gone (orchestrators below get an "Orchestrator" tag).
+- **Counts say what they count** — the Below tile's bottom line reads "N held" ("N need input" when a session below waits). The cumulative received count of 0.1.34's "N · in N" is gone. A row's "N received" now reads "N held".
+- **Lighter with many sessions below** — **⋯** on a row shows the three latest held reports, plus a "N more" line. Rows are lighter too. With 16 sessions below, opening **⋯** on a row with many reports used to pass the drawing limit and close; it now opens.
+
 ## [0.1.34] — 2026-11-26
 
 ### New

diff --git a/plugin/CHANGELOG.md b/plugin/CHANGELOG.md
@@ -4,6 +4,15 @@ All notable changes to easy-session. Versions follow [Semantic Versioning](https
 
 **Update:** send Claude `Update this plugin: easy-session (claude plugin marketplace update easy-session, then claude plugin update easy-session@easy-session)`, or run those two lines in a shell, then restart Claude — see [Update](README.md#update).
 
+## [0.1.35] — 2026-11-27
+
+### Changed
+- **"Not done" and "All" on the Below tile** — rows below that ended or show Done and have nothing to handle (held reports, needs input, looks done) start hidden. Switch with **Not done N** and **All N** at the top of the tile (your choice is kept). Rows with something to handle never fold into "More". Rows keep the order they were opened in.
+- **Accept or reject every held report from below** — when two or more sessions below have held reports, the top of the tile has **Accept everything** and **Reject everything** (asks once before deleting) with the accept estimate. Up to 0.1.34 you opened **⋯** on each row.
+- **⋯ is a gray button, Go moved into ⋯** — every row below shows **⋯** as a gray button. **Go** is on the "Go to" line at the top of the opened **⋯**. The role icon at the start of the row is gone (orchestrators below get an "Orchestrator" tag).
+- **Counts say what they count** — the Below tile's bottom line reads "N held" ("N need input" when a session below waits). The cumulative received count of 0.1.34's "N · in N" is gone. A row's "N received" now reads "N held".
+- **Lighter with many sessions below** — **⋯** on a row shows the three latest held reports, plus a "N more" line. Rows are lighter too. With 16 sessions below, opening **⋯** on a row with many reports used to pass the drawing limit and close; it now opens.
+
 ## [0.1.34] — 2026-11-26
 
 ### New
